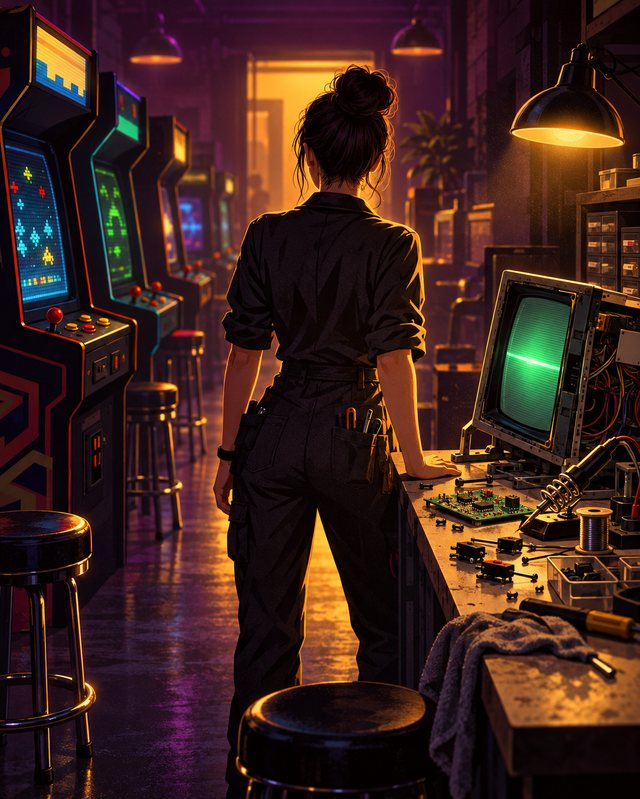
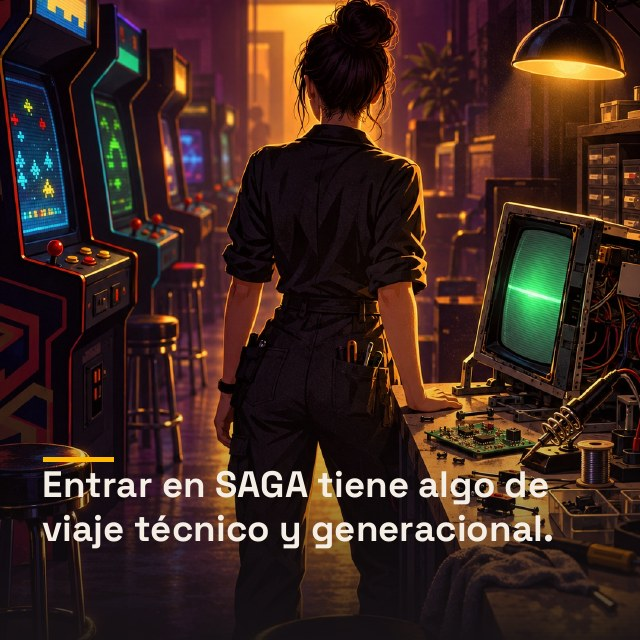
Add files via upload

diff --git a/index.html b/index.html
@@ -34,7 +34,7 @@ section{margin-top:88px;scroll-margin-top:100px}.hero{display:grid;grid-template
 </div></section>
 <section class="panel dark" id="publicaciones"><h2 class="group">Publicaciones</h2><p class="lead2">Lo que voy publicando sobre preservación digital, bibliotecas y patrimonio cultural. Cada pieza enlaza a su publicación original en LinkedIn.</p><div class="pub-grid">
 <article class="pub"><img style="object-position:center top" alt="Primera diapositiva del carrusel: ¿Quién cuida de los videojuegos cuando dejan de venderse?" height="480" loading="lazy" src="publicaciones-2026-10-05.jpg" width="480"><div class="pub-body"><span class="pub-date">5 de octubre de 2026 · Carrusel</span><h3>Preservar juegos es cuidar su entorno</h3><p>Preservar un videojuego no es guardar un archivo: es conservar el entorno en el que funcionaba. Resumen de mi investigación sobre el software español de 8 bits y el "Depósito de Entorno".</p><a class="btn primary" href="https://www.linkedin.com/feed/update/urn:li:activity:7512803524859019264/" rel="noopener" target="_blank">Ver en LinkedIn</a></div></article>
-<article class="pub"><img alt="Ilustración: una figura entre máquinas recreativas y un banco de reparación con un monitor verde" height="799" loading="lazy" src="publicaciones-2026-10-11.jpg" width="640"><div class="pub-body"><span class="pub-date">11 de octubre de 2026 · Crónica</span><h3>Crónica del SAGA Barcelona Game Fest</h3><p>Entrar en SAGA tiene algo de viaje técnico y generacional: el mantenimiento de placas y tubos de rayos catódicos junto a estudios locales que presentan sus primeros prototipos. Oficio, memoria técnica y una comunidad activa.</p><a class="btn primary" href="https://www.linkedin.com/feed/update/urn:li:activity:7515024186965221376/" rel="noopener" target="_blank">Ver en LinkedIn</a></div></article>
+<article class="pub"><img alt="Primera diapositiva del carrusel: Entrar en SAGA tiene algo de viaje técnico y generacional" height="640" loading="lazy" src="publicaciones-2026-10-11.jpg" width="640"><div class="pub-body"><span class="pub-date">11 de octubre de 2026 · Carrusel</span><h3>Crónica del SAGA Barcelona Game Fest</h3><p>Entrar en SAGA tiene algo de viaje técnico y generacional: el mantenimiento de placas y tubos de rayos catódicos junto a estudios locales que presentan sus primeros prototipos. Oficio, memoria técnica y una comunidad activa.</p><a class="btn primary" href="https://www.linkedin.com/feed/update/urn:li:activity:7515136476326756352/" rel="noopener" target="_blank">Ver en LinkedIn</a></div></article>
 </div></section>
 <section id="perfil"><h2 class="group">Un puente entre cultura y código</h2><p class="lead2">Xesco Tejedor es mi nombre profesional y la marca bajo la que presento mis servicios de consultoría y mis proyectos. Detrás está Francesc Adrià Perelló. Mi trayectoria combina el trabajo de atención al público en el entorno del MNAC con formación en filosofía, desarrollo web y continuidad digital.</p><dl class="facts"><div><dt>Trayectoria</dt><dd>Más de 20 años en el entorno del MNAC, en atención al público e información operativa.</dd></div><div><dt>Biblioteca</dt><dd>Recepción y atención a usuarios en la Biblioteca Joaquim Folch i Torres desde 2020, a través de MagmaCultura.</dd></div><div><dt>Formación actual</dt><dd>MUBACD · Universidad Carlos III de Madrid. En curso.</dd></div><div><dt>Base técnica</dt><dd>Bootcamp Fullstack · The Bridge, 2022. JavaScript, SQL, hojas de cálculo y Python.</dd></div><div><dt>Método</dt><dd>Formación autodidacta y online. Ideas y dirección propias: los prototipos se desarrollan con herramientas de IA, siempre con revisión humana.</dd></div><div><dt>Base humanista</dt><dd>Licenciatura en Filosofía · UB. Máster en Formación del Profesorado · UNED.</dd></div></dl><div class="principle"><span>Mi criterio · Archivo vivo</span><p>Preservar no es guardar sin más.<br/>Es hacer posible que alguien vuelva a entender.</p></div></section>
 <section class="panel dark contact" id="contacto"><h2 class="group">Hablemos de tu colección o tu idea</h2><p class="lead2">Cuéntame qué tienes, quién necesita usarlo y dónde está la dificultad. A partir de ahí podemos definir un primer paso y un entregable concreto.</p><div class="contact-links"><a class="text-link" href="mailto:xesco@xescotejedor.es">xesco@xescotejedor.es</a></div></section>
